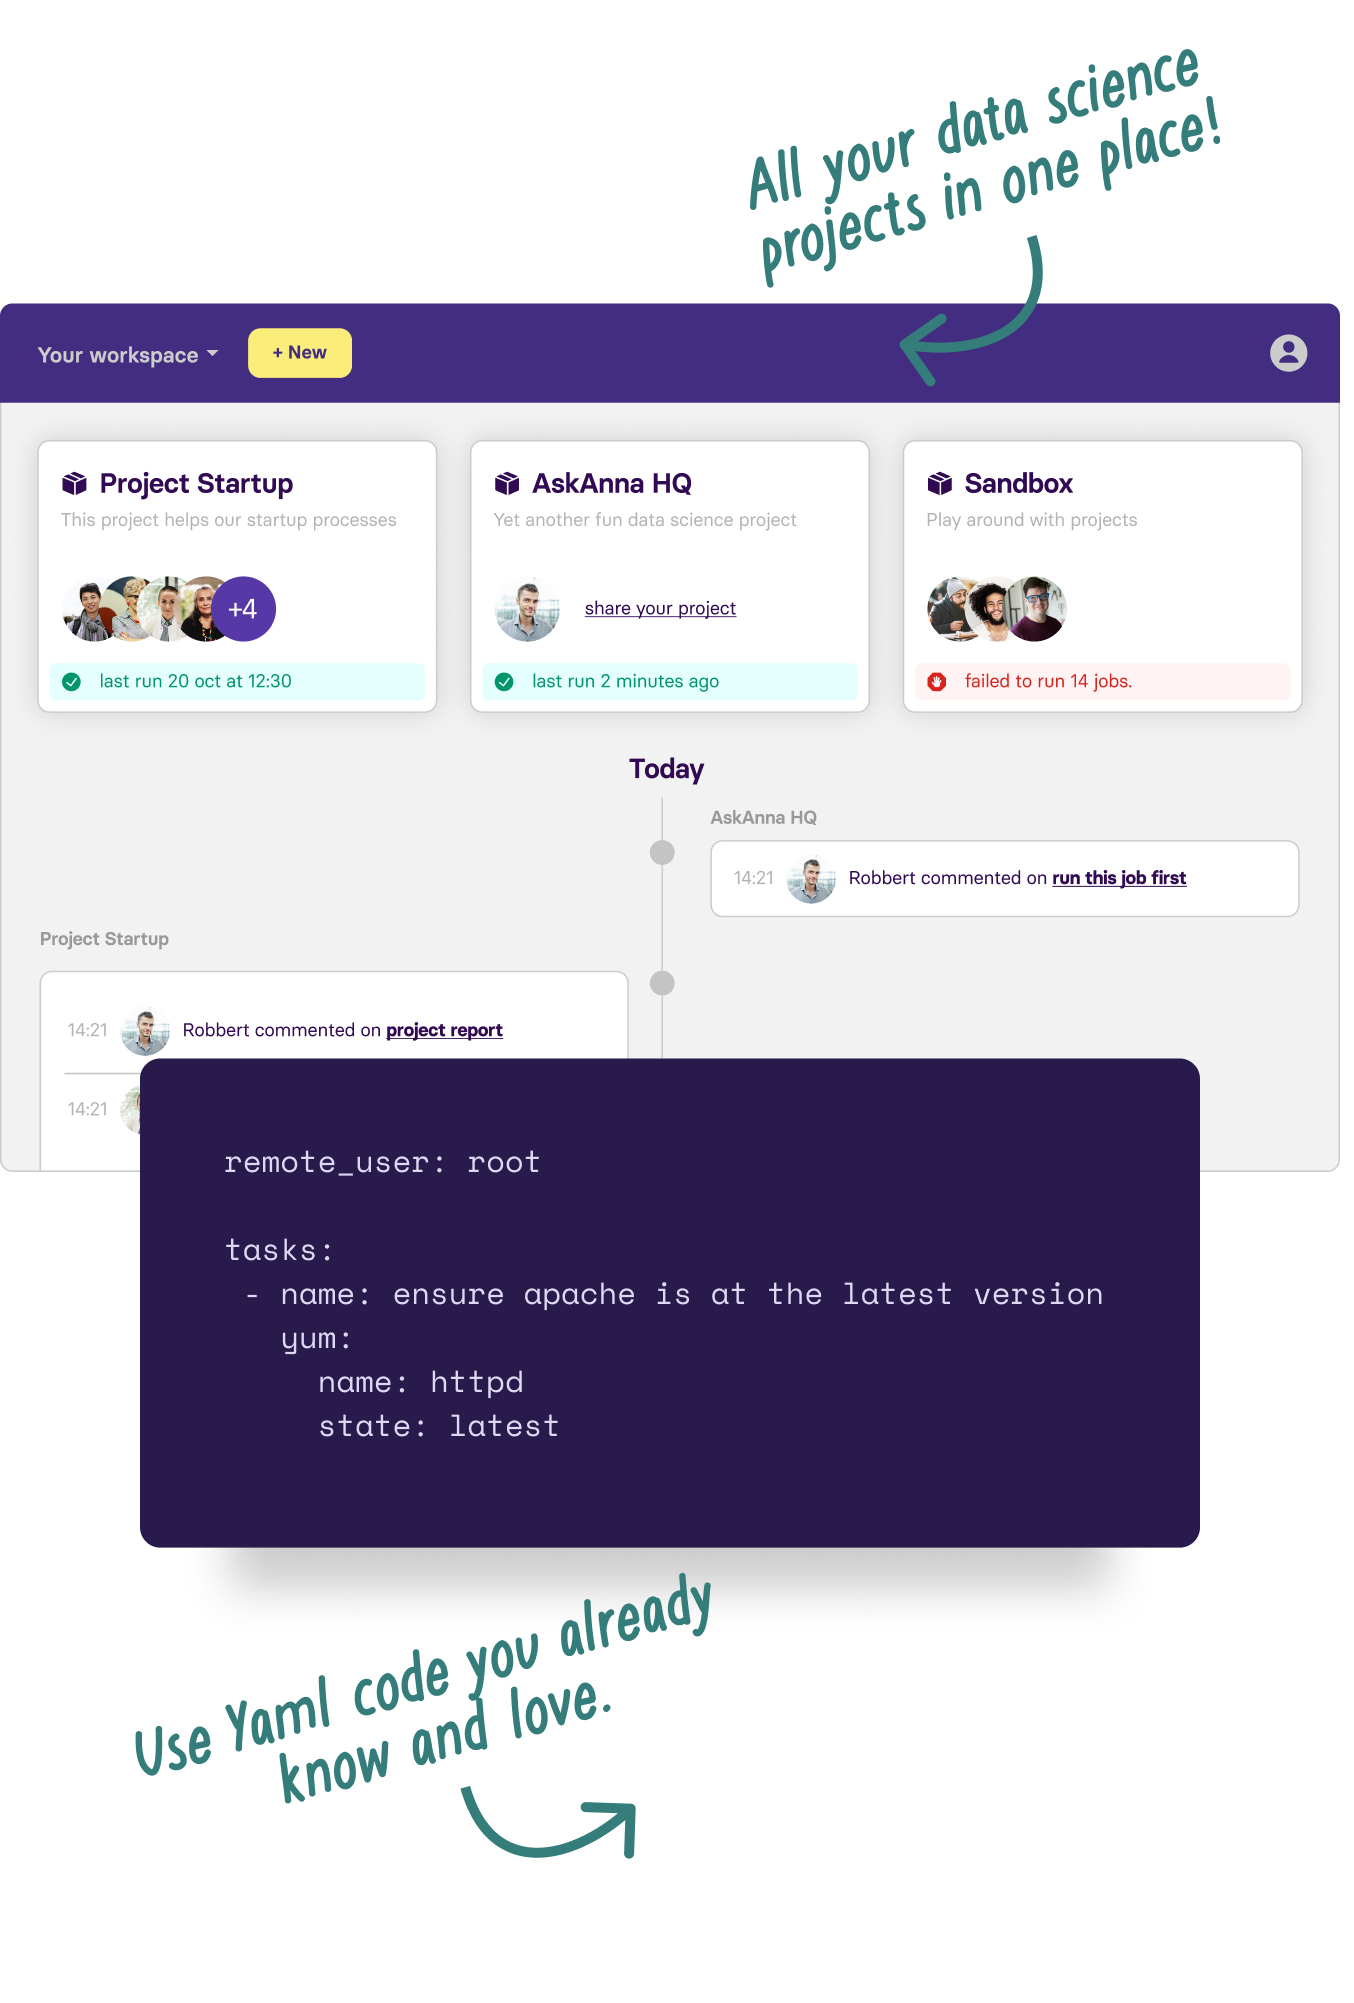
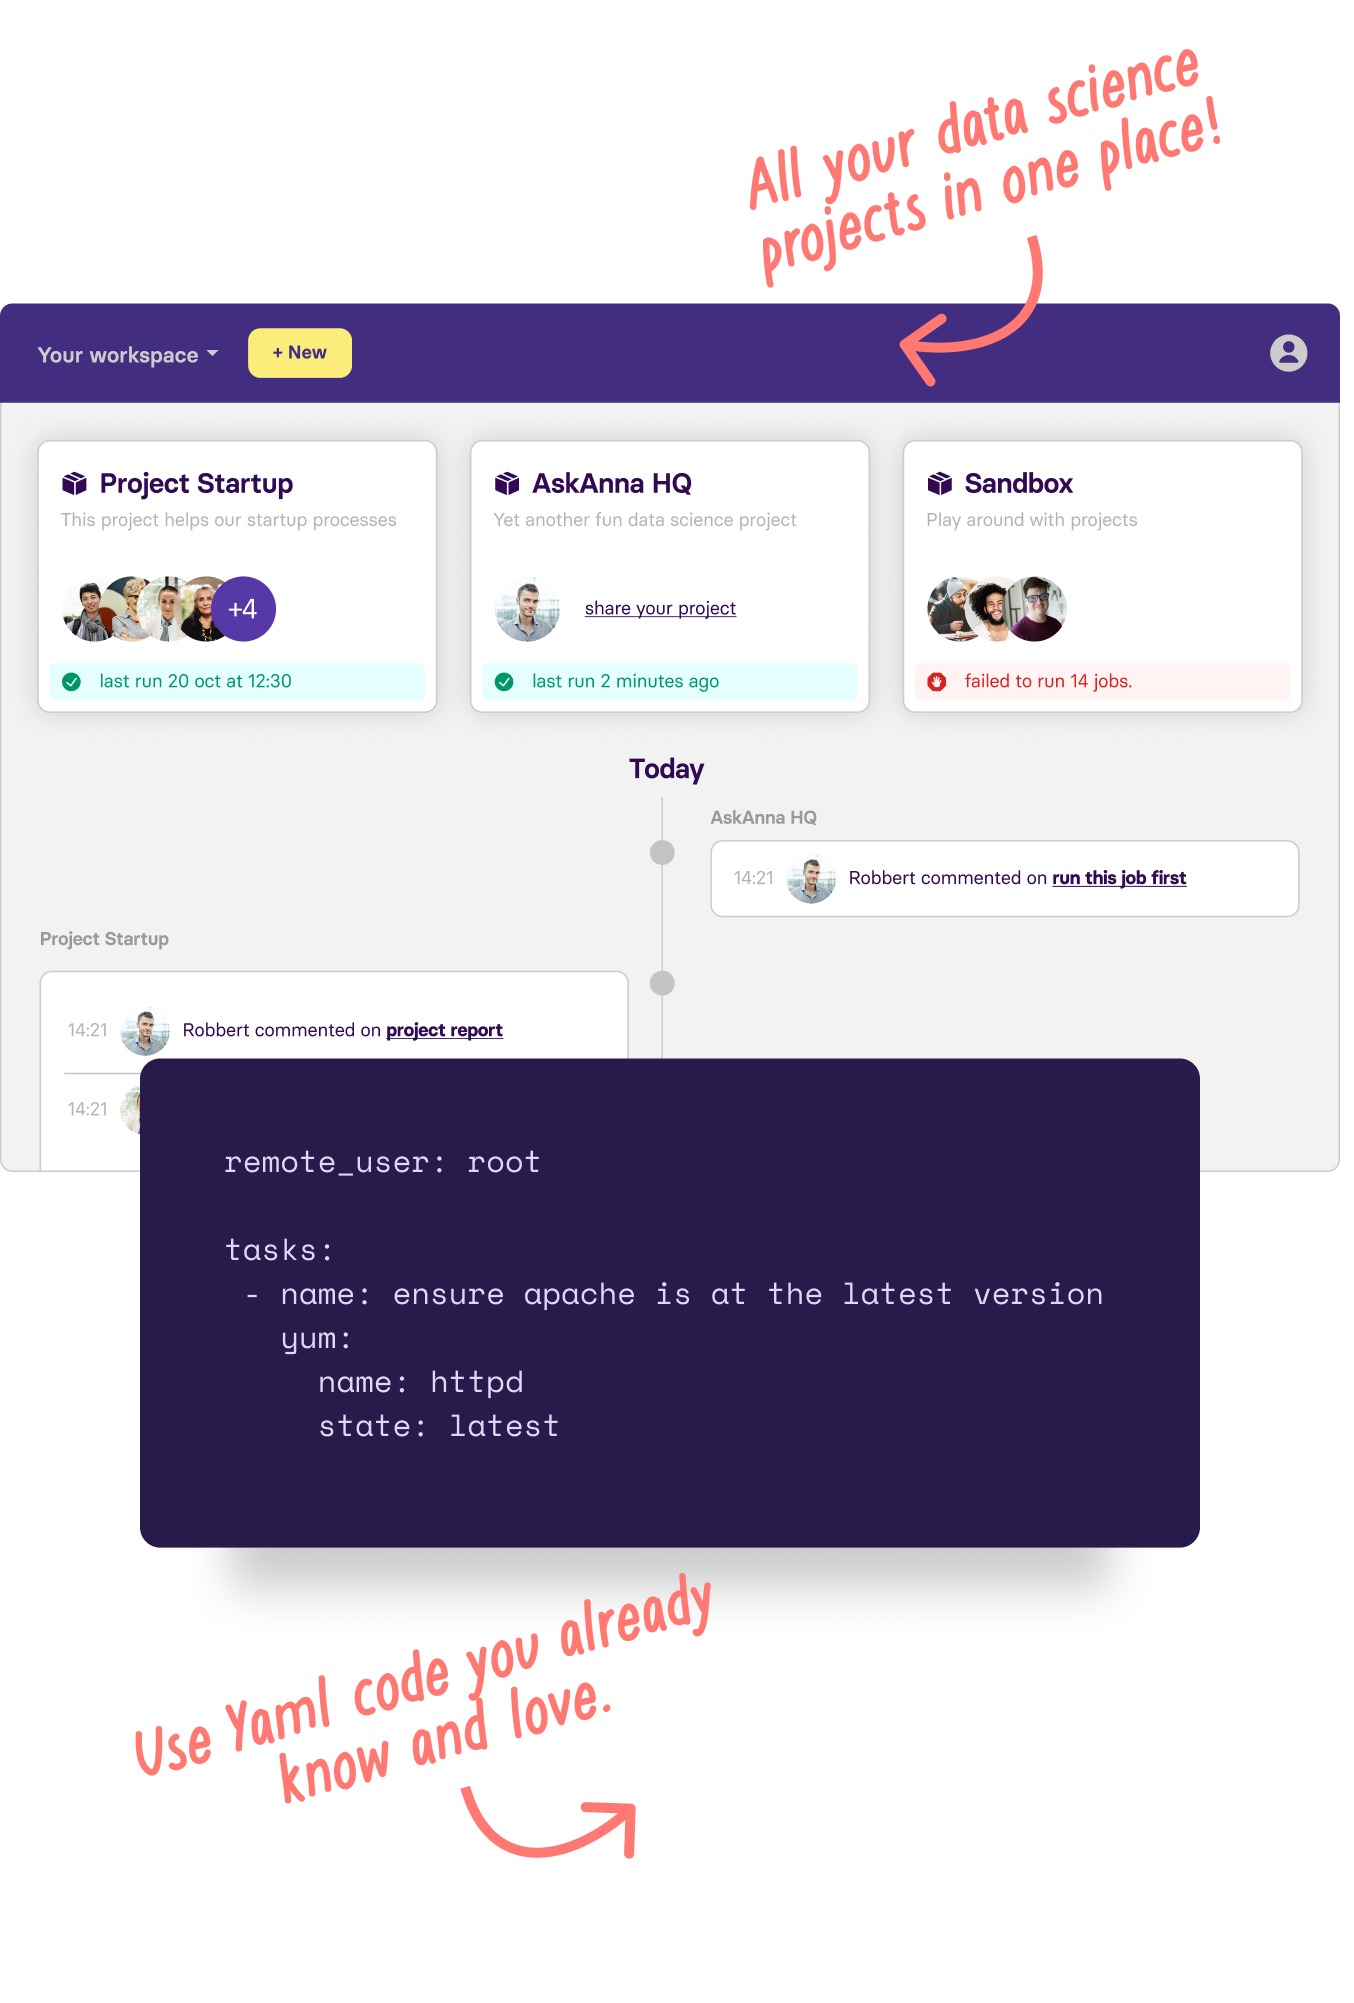
red 2

Changed region(s): [[0.5583, 0.031, 0.8996, 0.1857], [0.1551, 0.7738, 0.5273, 0.9286], [0.0931, 0.8667, 0.1551, 0.8977]]

diff --git a/assets/css/style.css b/assets/css/style.css
@@ -203,7 +203,7 @@ a {
   margin: 0px auto;
   max-width: 200px;
   transform: rotate(6deg);
-  color: var(--clr-accent-two);
+  color: var(--clr-accent-three);
 }
 
 .hero--devider--image {
@@ -223,7 +223,7 @@ a {
 }
 
 .note--icon path {
-  fill: var(--clr-accent-two);
+  fill: var(--clr-accent-three);
 }
 
 .demo {}
